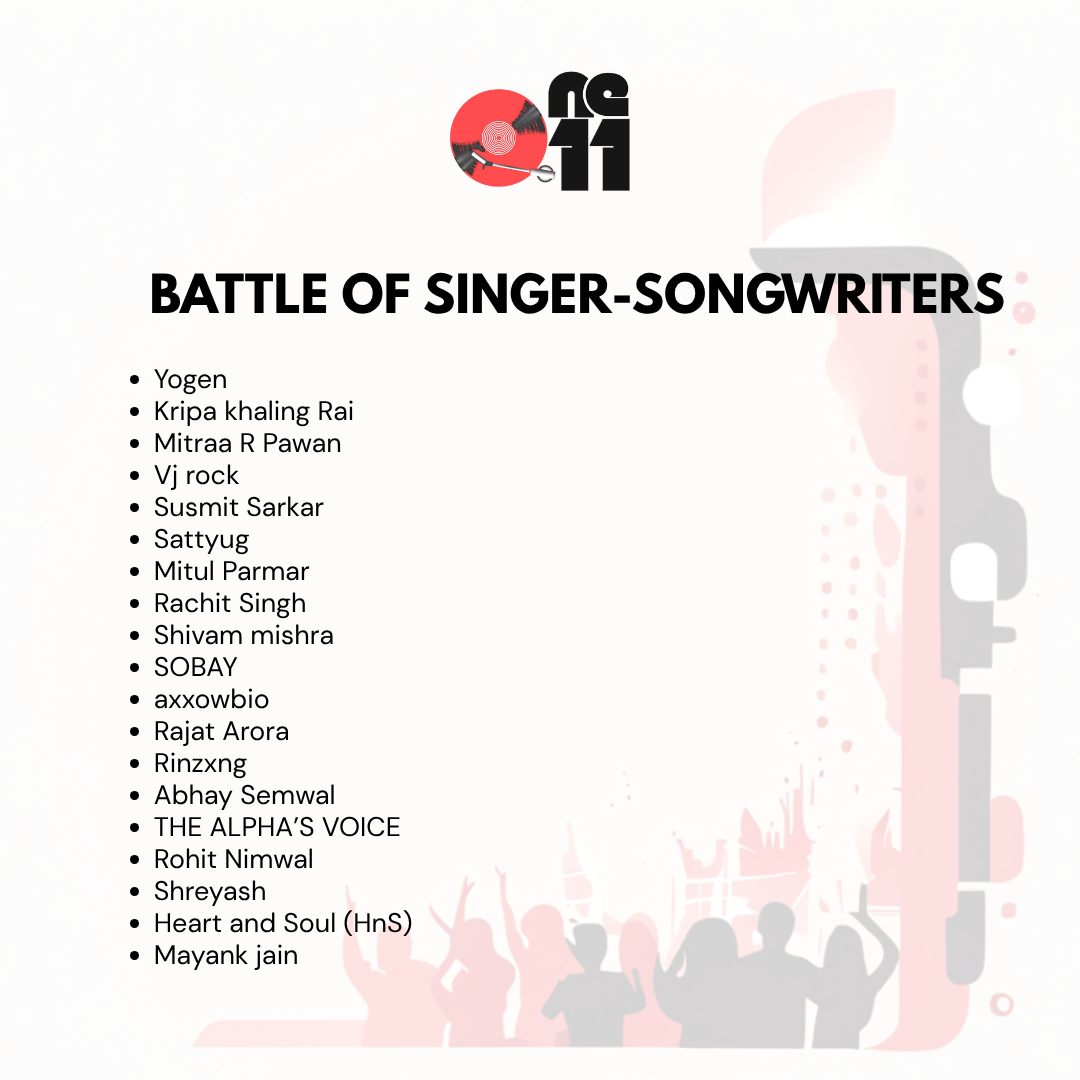
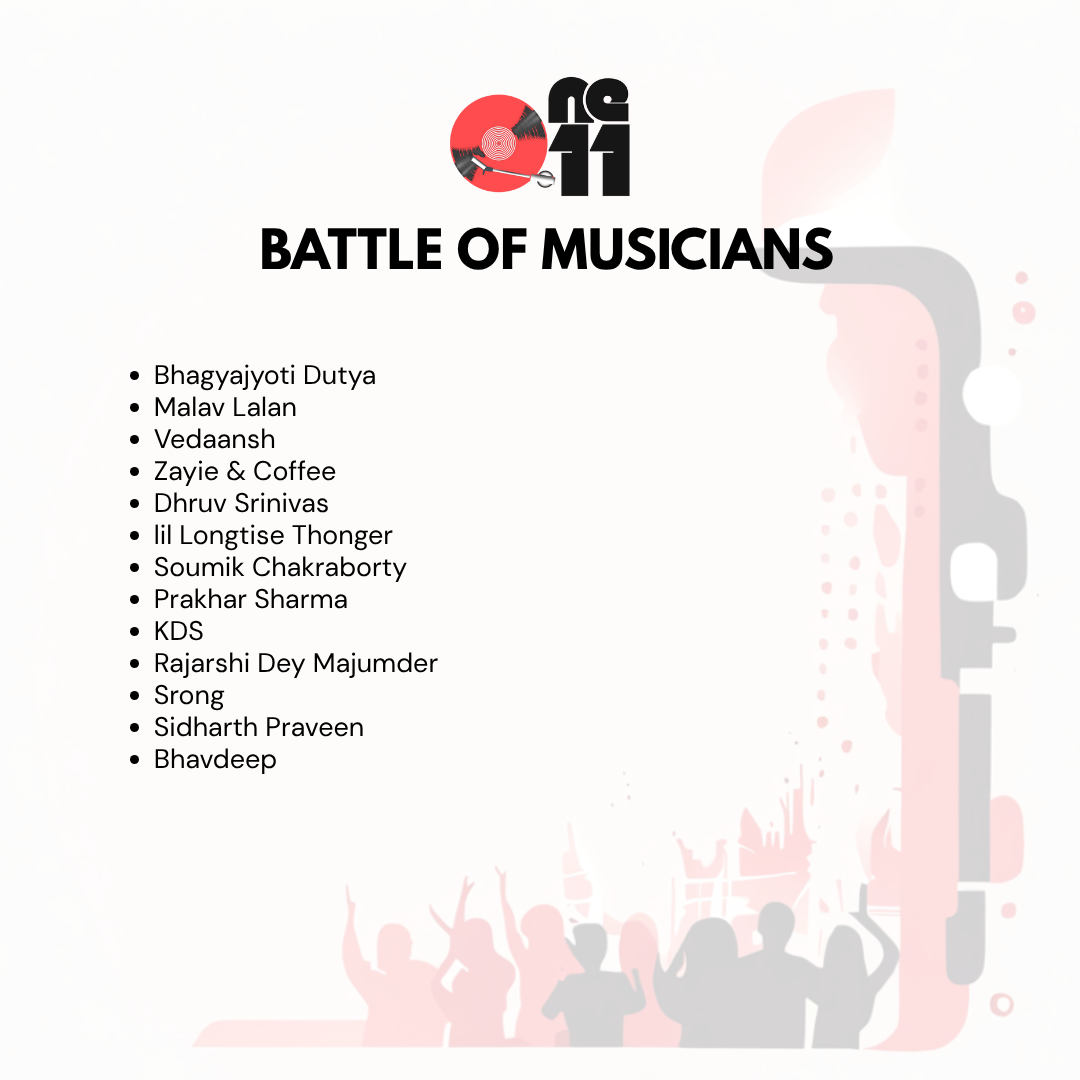
done

diff --git a/src/components/Updates.jsx b/src/components/Updates.jsx
@@ -12,19 +12,19 @@ const cardData = [
         title: 'Battle of Singers Song writers',
         description: 'Original voices and lyrical stories come alive as singer-songwriters.',
 
-        link: '/Results/musicians.png'
+        link: '/Results/signer_songwriters.png'
     },
     {
         title: 'Battle of Musicians',
         description: 'An epic competition where instrumentalists and solo artists push musical boundaries to win',
 
-        link: '/Results/rappers.jpg'
+        link: '/Results/musicians.png'
     },
     {
         title: 'Battle of Rappers',
         description: 'A soulful showcase of vocal talent, range, and expression from upcoming vocal powerhouses.',
 
-        link: '/Results/singer_songwriters.png'
+        link: '/Results/rappers.jpg'
     }
 
 ];
